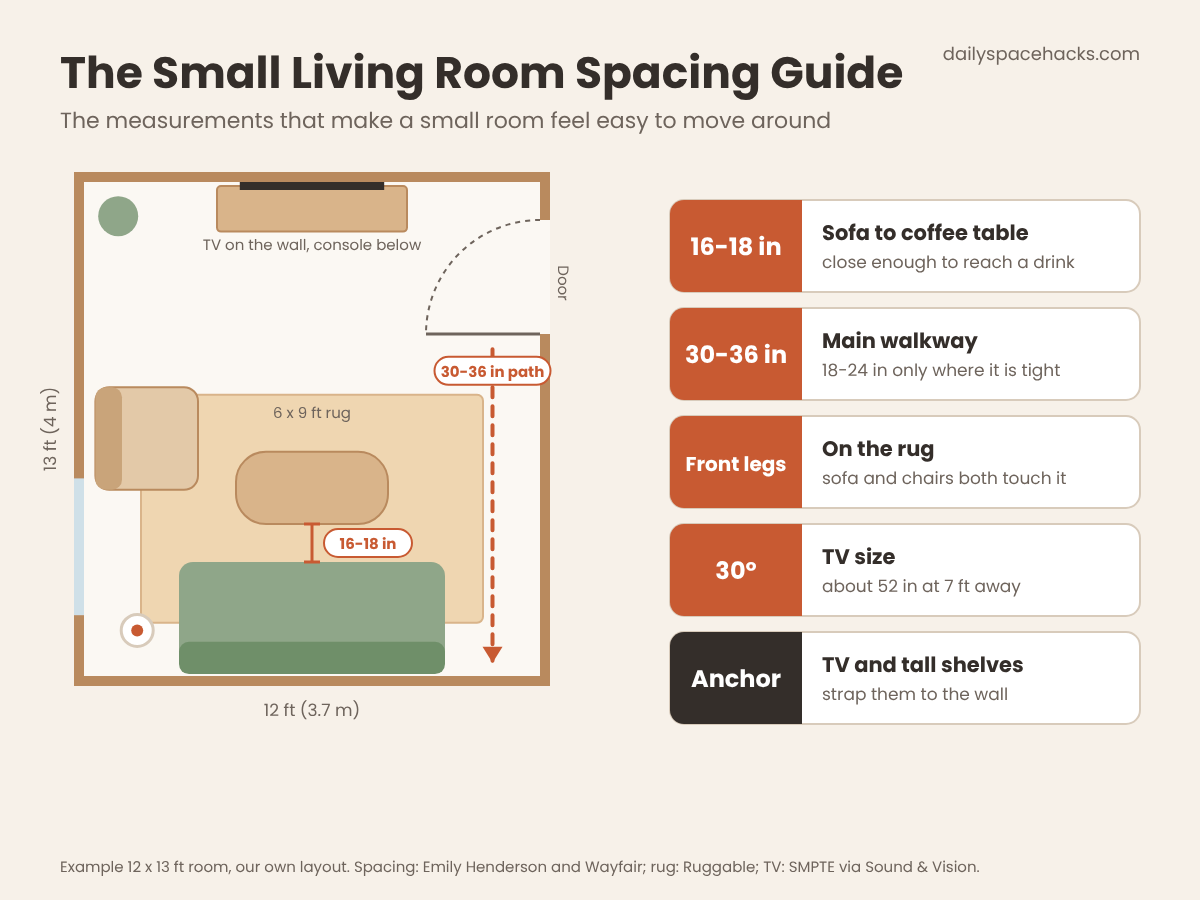
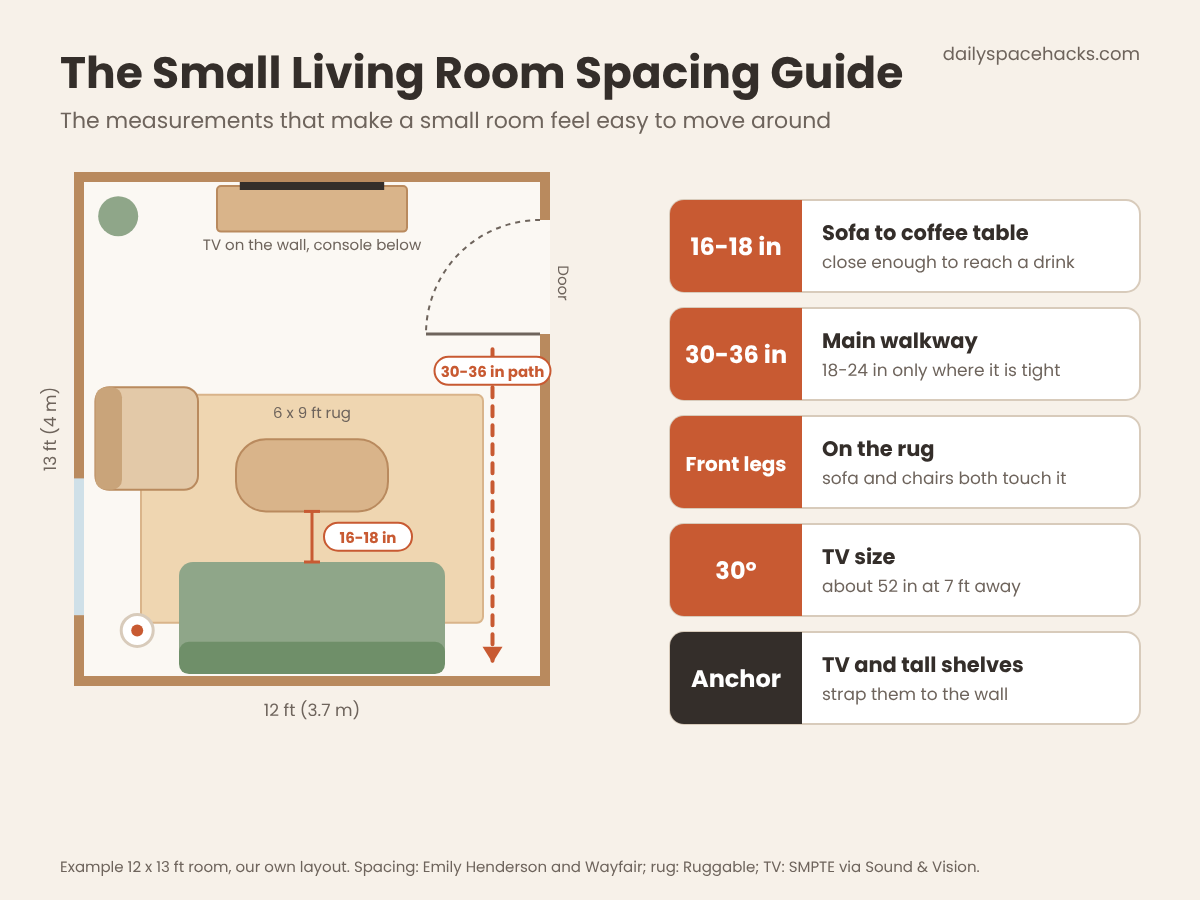
Small living room fact-check fixes
Claude-Session: https://claude.ai/code/session_01NA5LVV4VZ27gRjP7KysXbg

Changed region(s): [[0.185, 0.56, 0.3392, 0.6222], [0.185, 0.4667, 0.3392, 0.5289]]

diff --git a/tools/small-living-room/content.html b/tools/small-living-room/content.html
@@ -1,5 +1,5 @@
 <!-- wp:paragraph -->
-<p>Small apartment living room ideas are all about fitting real life into a few square feet: a sofa you love, a place for the TV, storage that does not crowd the floor and a walkway you can actually use. U.S. apartments are not big to begin with; RentCafe reports that apartment <a href="https://www.rentcafe.com/blog/?p=138390" target="_blank" rel="noopener">floor plans currently average 910 square feet nationwide</a>, and the living room usually gets only a slice of that.</p>
+<p>Small apartment living room ideas come down to fitting real life into limited space: a sofa you love, a place for the TV, storage that does not crowd the floor and a walkway you can actually use. U.S. apartments are not big to begin with; RentCafe reports that apartment <a href="https://www.rentcafe.com/blog/?p=138390" target="_blank" rel="noopener">floor plans currently average 910 square feet nationwide</a>, and the living room usually gets only a slice of that.</p>
 <!-- /wp:paragraph -->
 
 <!-- wp:paragraph -->
@@ -42,11 +42,11 @@
 <!-- /wp:paragraph -->
 
 <!-- wp:html -->
-<figure class="dsh-diagram"><svg xmlns="http://www.w3.org/2000/svg" viewBox="0 0 1200 900" font-family="Poppins, sans-serif" role="img" aria-labelledby="lr-t lr-d"><title id="lr-t">Small living room spacing guide</title><desc id="lr-d">Top-down plan of an example 12 by 13 foot apartment living room with spacing rules. A sofa sits against the bottom wall with a coffee table 16 to 18 inches in front of it. A 6 by 9 foot rug sits under the front legs of the sofa and the armchair. The TV hangs on the opposite wall above a low console. A 30 to 36 inch walkway runs from the door on the right wall past the end of the sofa. Anchor the TV and tall shelves to the wall.</desc><rect width="1200" height="900" fill="#F7F1E9"/><text x="60" y="88" font-size="44" font-weight="700" fill="#342E2A">The Small Living Room Spacing Guide</text><text x="60" y="128" font-size="22" fill="#6E645C">The measurements that make a small room feel easy to move around</text><text x="1140" y="60" font-size="18" fill="#6E645C" text-anchor="end">dailyspacehacks.com</text><rect x="74" y="172" width="476" height="514" fill="#B98A5E"/><rect x="84" y="182" width="456" height="494" fill="#FBF8F3"/><rect x="74" y="478.4" width="10" height="136.8" fill="#CFE0E8"/><rect x="540" y="220" width="10" height="114" fill="#FBF8F3"/><path d="M540 220 A114 114 0 0 0 426 334" fill="none" stroke="#6E645C" stroke-width="2" stroke-dasharray="5 5"/><line x1="540" y1="334" x2="426" y2="334" stroke="#6E645C" stroke-width="3"/><text x="558" y="283.0" font-size="15" fill="#6E645C" transform="rotate(90 558 283.0)" text-anchor="middle">Door</text><rect x="141.0" y="394.7" width="342" height="228" rx="6" fill="#ECCDA0" fill-opacity="0.8" stroke="#D9B48A" stroke-width="2"/><rect x="217.0" y="186" width="190" height="45.6" rx="4" fill="#D9B48A" stroke="#B98A5E" stroke-width="2"/><rect x="239.7" y="182" width="144.4" height="8" fill="#342E2A"/><text x="312" y="249.6" font-size="15" fill="#6E645C" text-anchor="middle">TV on the wall, console below</text><rect x="179.0" y="562" width="266" height="110" rx="14" fill="#8FA689"/><rect x="179.0" y="641.8" width="266" height="32.3" rx="10" fill="#6F8F69"/><rect x="236" y="451.8" width="152" height="72.2" rx="30" fill="#D9B48A" stroke="#B98A5E" stroke-width="2"/><rect x="95.4" y="387.2" width="102.6" height="102.6" rx="14" fill="#E3C9A8" stroke="#B98A5E" stroke-width="2"/><rect x="95.4" y="387.2" width="26.5" height="102.6" rx="10" fill="#C9A47A"/><circle cx="137.2" cy="630.4" r="16" fill="#fff" stroke="#D8CBBB" stroke-width="3"/><circle cx="137.2" cy="630.4" r="6" fill="#C85A32"/><circle cx="118.2" cy="216.2" r="20" fill="#8FA689"/><line x1="312" y1="524" x2="312" y2="562" stroke="#C85A32" stroke-width="3"/><line x1="304" y1="524" x2="320" y2="524" stroke="#C85A32" stroke-width="3"/><line x1="304" y1="562" x2="320" y2="562" stroke="#C85A32" stroke-width="3"/><rect x="324" y="529.0" width="88" height="28" rx="14" fill="#fff" stroke="#C85A32" stroke-width="2"/><text x="368" y="549.0" font-size="15" font-weight="700" fill="#C85A32" text-anchor="middle">16-18 in</text><path d="M492.5 349.2 L492.5 660.8" stroke="#C85A32" stroke-width="4" stroke-dasharray="10 9" stroke-linecap="round"/><path d="M482.5 646.8 L492.5 662.8 L502.5 646.8 Z" fill="#C85A32"/><rect x="434.5" y="356.7" width="116" height="28" rx="14" fill="#fff" stroke="#C85A32" stroke-width="2"/><text x="492.5" y="376.7" font-size="15" font-weight="700" fill="#C85A32" text-anchor="middle">30-36 in path</text><text x="312" y="417.7" font-size="15" fill="#6E645C" text-anchor="middle">6 x 9 ft rug</text><text x="312.0" y="716" font-size="17" fill="#6E645C" text-anchor="middle">12 ft (3.7 m)</text><text x="56" y="429.0" font-size="17" fill="#6E645C" text-anchor="middle" transform="rotate(-90 56 429.0)">13 ft (4 m)</text><rect x="670" y="200" width="470" height="92" rx="14" fill="#fff" stroke="#D8CBBB" stroke-width="2"/><rect x="670" y="200" width="132" height="92" rx="14" fill="#C85A32"/><rect x="788" y="200" width="14" height="92" fill="#C85A32"/><text x="736" y="255" font-size="24" font-weight="700" fill="#fff" text-anchor="middle">16-18 in</text><text x="822" y="240" font-size="21" font-weight="700" fill="#342E2A">Sofa to coffee table</text><text x="822" y="268" font-size="17" fill="#6E645C">close enough to reach a drink</text><rect x="670" y="308" width="470" height="92" rx="14" fill="#fff" stroke="#D8CBBB" stroke-width="2"/><rect x="670" y="308" width="132" height="92" rx="14" fill="#C85A32"/><rect x="788" y="308" width="14" height="92" fill="#C85A32"/><text x="736" y="363" font-size="24" font-weight="700" fill="#fff" text-anchor="middle">30-36 in</text><text x="822" y="348" font-size="21" font-weight="700" fill="#342E2A">Main walkway</text><text x="822" y="376" font-size="17" fill="#6E645C">18-24 in only where it is tight</text><rect x="670" y="416" width="470" height="92" rx="14" fill="#fff" stroke="#D8CBBB" stroke-width="2"/><rect x="670" y="416" width="132" height="92" rx="14" fill="#C85A32"/><rect x="788" y="416" width="14" height="92" fill="#C85A32"/><text x="736" y="471" font-size="20" font-weight="700" fill="#fff" text-anchor="middle">Front legs</text><text x="822" y="456" font-size="21" font-weight="700" fill="#342E2A">On the rug</text><text x="822" y="484" font-size="17" fill="#6E645C">sofa and chairs both touch it</text><rect x="670" y="524" width="470" height="92" rx="14" fill="#fff" stroke="#D8CBBB" stroke-width="2"/><rect x="670" y="524" width="132" height="92" rx="14" fill="#C85A32"/><rect x="788" y="524" width="14" height="92" fill="#C85A32"/><text x="736" y="579" font-size="24" font-weight="700" fill="#fff" text-anchor="middle">30°</text><text x="822" y="564" font-size="21" font-weight="700" fill="#342E2A">TV size</text><text x="822" y="592" font-size="17" fill="#6E645C">about 52 in at 7 ft away</text><rect x="670" y="632" width="470" height="92" rx="14" fill="#fff" stroke="#D8CBBB" stroke-width="2"/><rect x="670" y="632" width="132" height="92" rx="14" fill="#342E2A"/><rect x="788" y="632" width="14" height="92" fill="#342E2A"/><text x="736" y="687" font-size="24" font-weight="700" fill="#fff" text-anchor="middle">Anchor</text><text x="822" y="672" font-size="21" font-weight="700" fill="#342E2A">TV and tall shelves</text><text x="822" y="700" font-size="17" fill="#6E645C">strap them to the wall</text><text x="60" y="872" font-size="15" fill="#6E645C">Example 12 x 13 ft room, our own layout. Spacing: Emily Henderson and Wayfair; rug: Ruggable; TV: SMPTE via Sound &amp; Vision.</text></svg><figcaption>The small living room spacing guide: 16 to 18 in from sofa to coffee table, a 30 to 36 in walkway, the front legs of every seat on the rug, a TV sized for a 30 degree view and tall pieces anchored to the wall.</figcaption></figure>
+<figure class="dsh-diagram"><svg xmlns="http://www.w3.org/2000/svg" viewBox="0 0 1200 900" font-family="Poppins, sans-serif" role="img" aria-labelledby="lr-t lr-d"><title id="lr-t">Small living room spacing guide</title><desc id="lr-d">Top-down plan of an example 12 by 13 foot apartment living room with spacing rules. A sofa sits against the bottom wall with a coffee table 16 to 18 inches in front of it. A 6 by 9 foot rug sits under the front legs of the sofa and the armchair. The TV hangs on the opposite wall above a low console. A 30 to 36 inch walkway runs from the door on the right wall past the end of the sofa. Anchor the TV and tall shelves to the wall.</desc><rect width="1200" height="900" fill="#F7F1E9"/><text x="60" y="88" font-size="44" font-weight="700" fill="#342E2A">The Small Living Room Spacing Guide</text><text x="60" y="128" font-size="22" fill="#6E645C">The measurements that make a small room feel easy to move around</text><text x="1140" y="60" font-size="18" fill="#6E645C" text-anchor="end">dailyspacehacks.com</text><rect x="74" y="172" width="476" height="514" fill="#B98A5E"/><rect x="84" y="182" width="456" height="494" fill="#FBF8F3"/><rect x="74" y="478.4" width="10" height="136.8" fill="#CFE0E8"/><rect x="540" y="220" width="10" height="114" fill="#FBF8F3"/><path d="M540 220 A114 114 0 0 0 426 334" fill="none" stroke="#6E645C" stroke-width="2" stroke-dasharray="5 5"/><line x1="540" y1="334" x2="426" y2="334" stroke="#6E645C" stroke-width="3"/><text x="558" y="283.0" font-size="15" fill="#6E645C" transform="rotate(90 558 283.0)" text-anchor="middle">Door</text><rect x="141.0" y="394.7" width="342" height="228" rx="6" fill="#ECCDA0" fill-opacity="0.8" stroke="#D9B48A" stroke-width="2"/><rect x="217.0" y="186" width="190" height="45.6" rx="4" fill="#D9B48A" stroke="#B98A5E" stroke-width="2"/><rect x="239.7" y="182" width="144.4" height="8" fill="#342E2A"/><text x="312" y="249.6" font-size="15" fill="#6E645C" text-anchor="middle">TV on the wall, console below</text><rect x="179.0" y="562" width="266" height="110" rx="14" fill="#8FA689"/><rect x="179.0" y="641.8" width="266" height="32.3" rx="10" fill="#6F8F69"/><rect x="236" y="439.2" width="152" height="72.2" rx="30" fill="#D9B48A" stroke="#B98A5E" stroke-width="2"/><rect x="95.4" y="387.2" width="102.6" height="102.6" rx="14" fill="#E3C9A8" stroke="#B98A5E" stroke-width="2"/><rect x="95.4" y="387.2" width="26.5" height="102.6" rx="10" fill="#C9A47A"/><circle cx="137.2" cy="630.4" r="16" fill="#fff" stroke="#D8CBBB" stroke-width="3"/><circle cx="137.2" cy="630.4" r="6" fill="#C85A32"/><circle cx="118.2" cy="216.2" r="20" fill="#8FA689"/><line x1="312" y1="511.4" x2="312" y2="562" stroke="#C85A32" stroke-width="3"/><line x1="304" y1="511.4" x2="320" y2="511.4" stroke="#C85A32" stroke-width="3"/><line x1="304" y1="562" x2="320" y2="562" stroke="#C85A32" stroke-width="3"/><rect x="324" y="522.7" width="88" height="28" rx="14" fill="#fff" stroke="#C85A32" stroke-width="2"/><text x="368" y="542.7" font-size="15" font-weight="700" fill="#C85A32" text-anchor="middle">16-18 in</text><path d="M492.5 349.2 L492.5 660.8" stroke="#C85A32" stroke-width="4" stroke-dasharray="10 9" stroke-linecap="round"/><path d="M482.5 646.8 L492.5 662.8 L502.5 646.8 Z" fill="#C85A32"/><rect x="434.5" y="356.7" width="116" height="28" rx="14" fill="#fff" stroke="#C85A32" stroke-width="2"/><text x="492.5" y="376.7" font-size="15" font-weight="700" fill="#C85A32" text-anchor="middle">30-36 in path</text><text x="312" y="417.7" font-size="15" fill="#6E645C" text-anchor="middle">6 x 9 ft rug</text><text x="312.0" y="716" font-size="17" fill="#6E645C" text-anchor="middle">12 ft (3.7 m)</text><text x="56" y="429.0" font-size="17" fill="#6E645C" text-anchor="middle" transform="rotate(-90 56 429.0)">13 ft (4 m)</text><rect x="670" y="200" width="470" height="92" rx="14" fill="#fff" stroke="#D8CBBB" stroke-width="2"/><rect x="670" y="200" width="132" height="92" rx="14" fill="#C85A32"/><rect x="788" y="200" width="14" height="92" fill="#C85A32"/><text x="736" y="255" font-size="24" font-weight="700" fill="#fff" text-anchor="middle">16-18 in</text><text x="822" y="240" font-size="21" font-weight="700" fill="#342E2A">Sofa to coffee table</text><text x="822" y="268" font-size="17" fill="#6E645C">close enough to reach a drink</text><rect x="670" y="308" width="470" height="92" rx="14" fill="#fff" stroke="#D8CBBB" stroke-width="2"/><rect x="670" y="308" width="132" height="92" rx="14" fill="#C85A32"/><rect x="788" y="308" width="14" height="92" fill="#C85A32"/><text x="736" y="363" font-size="24" font-weight="700" fill="#fff" text-anchor="middle">30-36 in</text><text x="822" y="348" font-size="21" font-weight="700" fill="#342E2A">Main walkway</text><text x="822" y="376" font-size="17" fill="#6E645C">18-24 in only where it is tight</text><rect x="670" y="416" width="470" height="92" rx="14" fill="#fff" stroke="#D8CBBB" stroke-width="2"/><rect x="670" y="416" width="132" height="92" rx="14" fill="#C85A32"/><rect x="788" y="416" width="14" height="92" fill="#C85A32"/><text x="736" y="471" font-size="20" font-weight="700" fill="#fff" text-anchor="middle">Front legs</text><text x="822" y="456" font-size="21" font-weight="700" fill="#342E2A">On the rug</text><text x="822" y="484" font-size="17" fill="#6E645C">sofa and chairs both touch it</text><rect x="670" y="524" width="470" height="92" rx="14" fill="#fff" stroke="#D8CBBB" stroke-width="2"/><rect x="670" y="524" width="132" height="92" rx="14" fill="#C85A32"/><rect x="788" y="524" width="14" height="92" fill="#C85A32"/><text x="736" y="579" font-size="24" font-weight="700" fill="#fff" text-anchor="middle">30°</text><text x="822" y="564" font-size="21" font-weight="700" fill="#342E2A">TV size</text><text x="822" y="592" font-size="17" fill="#6E645C">about 52 in at 7 ft away</text><rect x="670" y="632" width="470" height="92" rx="14" fill="#fff" stroke="#D8CBBB" stroke-width="2"/><rect x="670" y="632" width="132" height="92" rx="14" fill="#342E2A"/><rect x="788" y="632" width="14" height="92" fill="#342E2A"/><text x="736" y="687" font-size="24" font-weight="700" fill="#fff" text-anchor="middle">Anchor</text><text x="822" y="672" font-size="21" font-weight="700" fill="#342E2A">TV and tall shelves</text><text x="822" y="700" font-size="17" fill="#6E645C">strap them to the wall</text><text x="60" y="872" font-size="15" fill="#6E645C">Example 12 x 13 ft room, our own layout. Spacing: Emily Henderson and Wayfair; rug: Ruggable; TV: SMPTE via Sound &amp; Vision.</text></svg><figcaption>The small living room spacing guide: 16 to 18 in from sofa to coffee table, a 30 to 36 in walkway, the front legs of every seat on the rug, a TV sized for a 30 degree view and tall pieces anchored to the wall.</figcaption></figure>
 <!-- /wp:html -->
 
 <!-- wp:table -->
-<figure class="wp-block-table"><table><thead><tr><th>What</th><th>Measurement</th><th>Why it matters</th></tr></thead><tbody><tr><td>Sofa to coffee table</td><td>16 to 18 in (12 in at a squeeze)</td><td>Easy to reach, still room for knees</td></tr><tr><td>Main walkway</td><td>30 to 36 in (18 to 24 in where tight)</td><td>You can walk through without turning sideways</td></tr><tr><td>Rug</td><td>Front legs of every seat on it</td><td>Pulls the seating together into one zone</td></tr><tr><td>TV size</td><td>About a 30° view; roughly 52 in at 7 ft</td><td>Not too big for a small room</td></tr><tr><td>Tall pieces</td><td>Anchored to the wall</td><td>Stops tip-overs</td></tr></tbody></table></figure>
+<figure class="wp-block-table"><table><thead><tr><th>What</th><th>Measurement</th><th>Why it matters</th></tr></thead><tbody><tr><td>Sofa to coffee table</td><td>16 to 18 in (12 in in a pinch)</td><td>Easy to reach, still room for knees</td></tr><tr><td>Main walkway</td><td>30 to 36 in (18 to 24 in where tight)</td><td>You can walk through without turning sideways</td></tr><tr><td>Rug</td><td>Front legs of every seat on it</td><td>Pulls the seating together into one zone</td></tr><tr><td>TV size</td><td>About a 30° view; roughly 52 in at 7 ft</td><td>SMPTE's minimum angle (<a href="https://www.soundandvision.com/content/screen-size-and-seating-distance" target="_blank" rel="noopener">Sound &amp; Vision</a>)</td></tr><tr><td>Tall pieces</td><td>Anchored to the wall</td><td>Helps prevent tip-overs</td></tr></tbody></table></figure>
 <!-- /wp:table -->
 
 <!-- wp:paragraph -->
@@ -58,7 +58,7 @@
 <!-- /wp:heading -->
 
 <!-- wp:table -->
-<figure class="wp-block-table"><table><thead><tr><th>Your situation</th><th>Best ideas</th><th>Cost</th></tr></thead><tbody><tr><td>Feels cramped</td><td>#1, #2, #11, #14</td><td>Low to medium</td></tr><tr><td>No storage</td><td>#6, #7, #8, #9</td><td>Low to medium</td></tr><tr><td>Renting</td><td>#9, #10, #12, #15</td><td>Low</td></tr><tr><td>Living room is also the dining room</td><td>#3, #16</td><td>Low to medium</td></tr><tr><td>Working from home</td><td>#17, #18</td><td>Low</td></tr></tbody></table></figure>
+<figure class="wp-block-table"><table><thead><tr><th>Your situation</th><th>Best ideas</th><th>Cost</th></tr></thead><tbody><tr><td>Feels cramped</td><td>#1, #2, #11, #14</td><td>Low to medium</td></tr><tr><td>No storage</td><td>#6, #7, #8, #9</td><td>Low to medium</td></tr><tr><td>Renting</td><td>#9, #10, #15, #19</td><td>Low</td></tr><tr><td>Living room is also the dining room</td><td>#16, #18</td><td>Low to medium</td></tr><tr><td>Working from home</td><td>#3, #17</td><td>Low</td></tr></tbody></table></figure>
 <!-- /wp:table -->
 
 <!-- wp:heading -->
@@ -99,7 +99,7 @@
 <!-- /wp:heading -->
 
 <!-- wp:paragraph -->
-<p>Look for a sofa about 70 to 80 in wide with slim arms and raised legs. Seeing the floor underneath makes the room feel larger, and slim arms give you more seat in the same width.</p>
+<p>Look for a sofa about 70 to 84 in wide with slim arms and raised legs. Seeing the floor underneath makes the room feel larger, and slim arms give you more seat in the same width.</p>
 <!-- /wp:paragraph -->
 
 <!-- wp:heading {"level":3} -->
@@ -135,7 +135,7 @@
 <!-- /wp:heading -->
 
 <!-- wp:paragraph -->
-<p>In a very small room, push the sofa against the wall to free the middle. In a slightly bigger room, floating it a little off the wall with a slim console behind can define the living area, especially in an open-plan apartment.</p>
+<p>In a very small room, push the sofa against the wall to free the middle. In a slightly bigger room, floating it a little off the wall with a slim console behind can define the living area, especially in an open-concept apartment.</p>
 <!-- /wp:paragraph -->
 
 <!-- wp:heading {"level":3} -->
@@ -199,7 +199,7 @@
 <!-- /wp:image -->
 
 <!-- wp:paragraph -->
-<p>Home Depot's small living room guide notes that mirrors <a href="https://www.homedepot.com/c/ai/small-living-room-ideas/9ba683603be9fa5395fab9019760ffa2" target="_blank" rel="noopener">amplify the available light while creating the impression of more space</a>. Place one opposite or beside a window, and fix a floor mirror to the wall so it cannot tip.</p>
+<p>Home Depot's small living room guide notes that mirrors <a href="https://www.homedepot.com/c/ai/small-living-room-ideas/9ba683603be9fa5395fab9019760ffa2" target="_blank" rel="noopener">amplify the available light while creating the impression of more space</a>. Place one opposite or beside a window, and secure a floor mirror to the wall so it is much less likely to tip.</p>
 <!-- /wp:paragraph -->
 
 <!-- wp:heading {"level":3} -->
@@ -223,7 +223,7 @@
 <!-- /wp:heading -->
 
 <!-- wp:paragraph -->
-<p>Ruggable's guide says to <a href="https://ruggable.com/pages/size-guide" target="_blank" rel="noopener">ensure that the front legs of your seating fit on the rug</a>, and Home Depot suggests <a href="https://www.homedepot.com/c/ai/rug-sizes-for-your-space/9ba683603be9fa5395fab901838423fe" target="_blank" rel="noopener">a 6' x 9' or 8' x 10' rug size for living room spaces</a>. A rug that is too small makes the room look smaller. Our <a href="https://dailyspacehacks.com/rug-size-calculator/">rug size calculator</a> works it out for your layout.</p>
+<p>Ruggable's guide says to <a href="https://ruggable.com/pages/size-guide" target="_blank" rel="noopener">ensure that the front legs of your seating fit on the rug</a>, and for furniture placed against the walls, Home Depot suggests <a href="https://www.homedepot.com/c/ai/rug-sizes-for-your-space/9ba683603be9fa5395fab901838423fe" target="_blank" rel="noopener">a 6' x 9' or 8' x 10' rug size for living room spaces</a>. A rug that is too small makes the room look smaller. Our <a href="https://dailyspacehacks.com/rug-size-calculator/">rug size calculator</a> works it out for your layout.</p>
 <!-- /wp:paragraph -->
 
 <!-- wp:heading {"level":3} -->
@@ -263,7 +263,7 @@
 <!-- /wp:heading -->
 
 <!-- wp:paragraph -->
-<p>In a studio or open-plan apartment, an open bookcase or a curtain can separate the living area from the bed or kitchen without blocking light. Our <a href="https://dailyspacehacks.com/room-divider-ideas/">room divider ideas</a> and <a href="https://dailyspacehacks.com/studio-apartment-ideas/">studio apartment ideas</a> have more ways to do it.</p>
+<p>In a studio or open-concept apartment, an open bookcase or a curtain can separate the living area from the bed or kitchen without blocking light. Our <a href="https://dailyspacehacks.com/room-divider-ideas/">room divider ideas</a> and <a href="https://dailyspacehacks.com/studio-apartment-ideas/">studio apartment ideas</a> have more ways to do it.</p>
 <!-- /wp:paragraph -->
 
 <!-- wp:heading -->
@@ -296,13 +296,13 @@
 
 <!-- wp:list -->
 <ul class="wp-block-list"><!-- wp:list-item -->
-<li><strong>Anchor tall pieces:</strong> the CPSC says to <a href="https://www.cpsc.gov/Newsroom/News-Releases/2025/CPSC-AnchorIt-Campaign-Marks-10-Years-Fewer-Furniture-Tip-Overs-Lead-to-Safer-American-Households" target="_blank" rel="noopener">anchor TVs and furniture, such as bookcases and dressers, securely to the wall</a>, especially in homes with children.</li>
+<li><strong>Anchor tall pieces:</strong> the CPSC says to <a href="https://www.cpsc.gov/Newsroom/News-Releases/2025/CPSC-AnchorIt-Campaign-Marks-10-Years-Fewer-Furniture-Tip-Overs-Lead-to-Safer-American-Households" target="_blank" rel="noopener">anchor TVs and furniture, such as bookcases and dressers, securely to the wall</a>, especially in homes with children; the CPSC credits anchoring with fewer tip-overs.</li>
 <!-- /wp:list-item -->
 <!-- wp:list-item -->
 <li><strong>Cords:</strong> run cords along walls or behind furniture, not across walkways or under rugs.</li>
 <!-- /wp:list-item -->
 <!-- wp:list-item -->
-<li><strong>Rugs:</strong> use a non-slip rug pad so a rug cannot slide on a hard floor.</li>
+<li><strong>Rugs:</strong> use a non-slip rug pad so a rug is less likely to slide on a hard floor.</li>
 <!-- /wp:list-item -->
 <!-- wp:list-item -->
 <li><strong>Mirrors:</strong> fix floor and wall mirrors securely, and never rely on adhesive strips for heavy ones.</li>
@@ -351,7 +351,7 @@
 <!-- /wp:heading -->
 
 <!-- wp:paragraph -->
-<p>An apartment-size sofa about 70 to 80 in wide with slim arms and raised legs suits most small living rooms. Measure the room, the doorway and any stairs before you buy, and leave room for a walkway.</p>
+<p>An apartment-size sofa about 70 to 84 in wide with slim arms and raised legs suits most small living rooms. Measure the room, the doorway and any stairs before you buy, and leave room for a walkway.</p>
 <!-- /wp:paragraph -->
 
 <!-- wp:heading {"level":3} -->

diff --git a/tools/small-living-room/build.py b/tools/small-living-room/build.py
@@ -11,7 +11,7 @@ SRC={"eh":"https://old.stylebyemilyhenderson.com/?p=141686",
 "rent":"https://www.rentcafe.com/blog/?p=138390",
 "cmd":"https://www.command.com/3M/en_US/p/d/b5005604172/"}
 def SR(k,t): return ext(SRC[k],t)
-p(f"Small apartment living room ideas are all about fitting real life into a few square feet: a sofa you love, a place for the TV, storage that does not crowd the floor and a walkway you can actually use. U.S. apartments are not big to begin with; RentCafe reports that apartment {SR('rent','floor plans currently average 910 square feet nationwide')}, and the living room usually gets only a slice of that.")
+p(f"Small apartment living room ideas come down to fitting real life into limited space: a sofa you love, a place for the TV, storage that does not crowd the floor and a walkway you can actually use. U.S. apartments are not big to begin with; RentCafe reports that apartment {SR('rent','floor plans currently average 910 square feet nationwide')}, and the living room usually gets only a slice of that.")
 p("This guide gives you a simple spacing plan with the measurements that matter, a 6-step layout plan and 20 small apartment living room ideas for furniture, storage, making the room feel bigger and fitting in a dining or work spot. Most are renter-friendly.")
 img(1)
 summary(["<strong>Quick answer:</strong> Choose an apartment-size sofa on legs, a round or nesting coffee table 16 to 18 in from the sofa, and a rug big enough for the front legs of every seat. Mount the TV, use the walls for storage, keep a 30 to 36 in walkway and add a mirror, high curtains and layered light.",
@@ -23,19 +23,19 @@ h2("The Small Living Room Spacing Guide")
 p(f"A small room feels comfortable when the spaces between things are right. Design guides agree on a few numbers: Emily Henderson's team says {SR('eh','16″ to 18” is the ideal distance between the sofa and coffee table')}, and suggests a 30 to 36 in walkway between large pieces. Wayfair's guide allows {SR('wf','between 12\" – 18\" of space')} between the table and the sofa.")
 diagram(re.sub(r'(\d+\.\d{1,2})\d+',r'\1',open('z.svg').read()),"The small living room spacing guide: 16 to 18 in from sofa to coffee table, a 30 to 36 in walkway, the front legs of every seat on the rug, a TV sized for a 30 degree view and tall pieces anchored to the wall.")
 table(["What","Measurement","Why it matters"],[
-["Sofa to coffee table","16 to 18 in (12 in at a squeeze)","Easy to reach, still room for knees"],
+["Sofa to coffee table","16 to 18 in (12 in in a pinch)","Easy to reach, still room for knees"],
 ["Main walkway","30 to 36 in (18 to 24 in where tight)","You can walk through without turning sideways"],
 ["Rug","Front legs of every seat on it","Pulls the seating together into one zone"],
-["TV size","About a 30° view; roughly 52 in at 7 ft","Not too big for a small room"],
-["Tall pieces","Anchored to the wall","Stops tip-overs"]])
+["TV size","About a 30° view; roughly 52 in at 7 ft",f"SMPTE's minimum angle ({SR('tv','Sound &amp; Vision')})"],
+["Tall pieces","Anchored to the wall","Helps prevent tip-overs"]])
 p("The room in the plan is our own 12 x 13 ft example; measure your room and move the pieces to fit your windows and door.")
 h2("Quick Pick: Small Apartment Living Room Ideas by Situation")
 table(["Your situation","Best ideas","Cost"],[
 ["Feels cramped","#1, #2, #11, #14","Low to medium"],
 ["No storage","#6, #7, #8, #9","Low to medium"],
-["Renting","#9, #10, #12, #15","Low"],
-["Living room is also the dining room","#3, #16","Low to medium"],
-["Working from home","#17, #18","Low"]])
+["Renting","#9, #10, #15, #19","Low"],
+["Living room is also the dining room","#16, #18","Low to medium"],
+["Working from home","#3, #17","Low"]])
 h2("How to Plan a Small Apartment Living Room in 6 Steps")
 lst(["<strong>Measure the room.</strong> Note the windows, door swing, radiators and outlets.",
 "<strong>Decide the main job.</strong> TV, conversation, guests or work: let one thing lead the layout.",
@@ -46,7 +46,7 @@ lst(["<strong>Measure the room.</strong> Note the windows, door swing, radiators
 img(6)
 h2("Furniture Ideas for a Small Apartment Living Room")
 h3("1. An Apartment-Size Sofa on Legs")
-p("Look for a sofa about 70 to 80 in wide with slim arms and raised legs. Seeing the floor underneath makes the room feel larger, and slim arms give you more seat in the same width.")
+p("Look for a sofa about 70 to 84 in wide with slim arms and raised legs. Seeing the floor underneath makes the room feel larger, and slim arms give you more seat in the same width.")
 h3("2. A Round Coffee Table")
 p(f"A round table takes up less visual space, has no corners to bump into and makes it easier to walk around. Our {a('coffee-table-decor','coffee table decor ideas')} show how to style it without clutter.")
 h3("3. Nesting Tables")
@@ -55,7 +55,7 @@ p("A pair of nesting tables works as one coffee table most days and pulls apart 
 h3("4. Armless Chairs and Poufs")
 p("Armless chairs, a small swivel chair or a pair of poufs add seats without bulk. Poufs tuck under a console when you need the floor back.")
 h3("5. Sofa Against the Wall or Floating")
-p("In a very small room, push the sofa against the wall to free the middle. In a slightly bigger room, floating it a little off the wall with a slim console behind can define the living area, especially in an open-plan apartment.")
+p("In a very small room, push the sofa against the wall to free the middle. In a slightly bigger room, floating it a little off the wall with a slim console behind can define the living area, especially in an open-concept apartment.")
 h3("6. Furniture That Stores")
 p("A storage ottoman, a coffee table with a shelf or drawers, and a sofa with a storage base all hide blankets, games and chargers without adding another piece of furniture.")
 h2("Small Living Room Storage Ideas")
@@ -71,13 +71,13 @@ p(f"If you cannot drill, adhesive strips work for light frames and small shelves
 h2("Ways to Make a Small Living Room Feel Bigger")
 h3("11. A Big Mirror")
 img(4)
-p(f"Home Depot's small living room guide notes that mirrors {SR('mirror','amplify the available light while creating the impression of more space')}. Place one opposite or beside a window, and fix a floor mirror to the wall so it cannot tip.")
+p(f"Home Depot's small living room guide notes that mirrors {SR('mirror','amplify the available light while creating the impression of more space')}. Place one opposite or beside a window, and secure a floor mirror to the wall so it is much less likely to tip.")
 h3("12. Curtains Hung High and Wide")
 p(f"Hang the rod close to the ceiling and extend it past the window frame so the curtains frame the glass instead of covering it. Our {a('curtain-size-calculator','curtain size calculator')} tells you the width and length to buy.")
 h3("13. Light, Calm Walls")
 p("Warm white, cream or a soft sage on the walls bounces light around. Keep the ceiling white and repeat one or two accent colors in cushions and art.")
 h3("14. A Rug That Is Big Enough")
-p(f"Ruggable's guide says to {SR('rug','ensure that the front legs of your seating fit on the rug')}, and Home Depot suggests {SR('hdrug',"a 6' x 9' or 8' x 10' rug size for living room spaces")}. A rug that is too small makes the room look smaller. Our {a('rug-size-calculator','rug size calculator')} works it out for your layout.")
+p(f"Ruggable's guide says to {SR('rug','ensure that the front legs of your seating fit on the rug')}, and for furniture placed against the walls, Home Depot suggests {SR('hdrug',"a 6' x 9' or 8' x 10' rug size for living room spaces")}. A rug that is too small makes the room look smaller. Our {a('rug-size-calculator','rug size calculator')} works it out for your layout.")
 h3("15. Layered, Wall-Mounted Lighting")
 p("Swap a big floor lamp for a plug-in wall sconce, add a table lamp and keep the ceiling light for cleaning. Light at different heights makes corners feel part of the room.")
 h2("Living Room Ideas That Do Double Duty")
@@ -87,7 +87,7 @@ p(f"A round pedestal table for two in a corner or by the window gives you a plac
 h3("17. A Slim Work Corner")
 p("A narrow wall desk or a console behind the sofa can be a home office. Choose a chair that tucks fully under, and keep work things in one box you can put away at night.")
 h3("18. A Light Divider")
-p(f"In a studio or open-plan apartment, an open bookcase or a curtain can separate the living area from the bed or kitchen without blocking light. Our {a('room-divider-ideas','room divider ideas')} and {a('studio-apartment-ideas','studio apartment ideas')} have more ways to do it.")
+p(f"In a studio or open-concept apartment, an open bookcase or a curtain can separate the living area from the bed or kitchen without blocking light. Our {a('room-divider-ideas','room divider ideas')} and {a('studio-apartment-ideas','studio apartment ideas')} have more ways to do it.")
 h2("Small Apartment Living Room Decor Ideas")
 h3("19. Plants at Different Heights")
 p("One tall plant in a corner and one or two small ones on shelves bring life into the room without taking floor space. If you have pets, choose plants that are safe for them.")
@@ -95,9 +95,9 @@ h3("20. One Big Piece of Art")
 p(f"A single large print or a small gallery above the sofa looks calmer than many little frames. Use our {a('picture-hanging-height-calculator','picture hanging height calculator')} to hang it at the right height above the sofa.")
 add(open('savebox.html').read())
 h2("Small Living Room Safety Tips")
-lst([f"<strong>Anchor tall pieces:</strong> the CPSC says to {SR('cpsc','anchor TVs and furniture, such as bookcases and dressers, securely to the wall')}, especially in homes with children.",
+lst([f"<strong>Anchor tall pieces:</strong> the CPSC says to {SR('cpsc','anchor TVs and furniture, such as bookcases and dressers, securely to the wall')}, especially in homes with children; the CPSC credits anchoring with fewer tip-overs.",
 "<strong>Cords:</strong> run cords along walls or behind furniture, not across walkways or under rugs.",
-"<strong>Rugs:</strong> use a non-slip rug pad so a rug cannot slide on a hard floor.",
+"<strong>Rugs:</strong> use a non-slip rug pad so a rug is less likely to slide on a hard floor.",
 "<strong>Mirrors:</strong> fix floor and wall mirrors securely, and never rely on adhesive strips for heavy ones.",
 "<strong>Keep exits clear:</strong> do not block the door or a window you might need to open."])
 h2("Common Small Living Room Mistakes")
@@ -110,7 +110,7 @@ h2("Small Apartment Living Room FAQ")
 h3("How do I arrange a small apartment living room?")
 p("Start with the sofa against the longest wall or facing the TV, keep a 30 to 36 in walkway from the door, put a rug under the front legs of every seat and place the coffee table 16 to 18 in from the sofa. Use the walls for the TV, storage and lights.")
 h3("What size sofa is best for a small living room?")
-p("An apartment-size sofa about 70 to 80 in wide with slim arms and raised legs suits most small living rooms. Measure the room, the doorway and any stairs before you buy, and leave room for a walkway.")
+p("An apartment-size sofa about 70 to 84 in wide with slim arms and raised legs suits most small living rooms. Measure the room, the doorway and any stairs before you buy, and leave room for a walkway.")
 h3("How can I make my small living room look bigger?")
 p("Use a large mirror near a window, hang curtains high and wide, keep the walls light, choose furniture on legs and a rug big enough for the front legs of every seat. Fewer, larger pieces also make the room feel calmer and more open.")
 h3("What size rug for a small living room?")

diff --git a/tools/small-living-room/svg.py b/tools/small-living-room/svg.py
@@ -25,14 +25,14 @@ a(f'<text x="{X(6)}" y="{Y(1.2)+22}" font-size="15" fill="{G}" text-anchor="midd
 # sofa bottom wall
 a(f'<rect x="{X(2.5)}" y="{Y(10)}" width="{7*F}" height="{3*F-4}" rx="14" fill="{SG}"/><rect x="{X(2.5)}" y="{Y(12.1)}" width="{7*F}" height="{0.85*F}" rx="10" fill="#6F8F69"/>')
 # coffee table
-a(f'<rect x="{X(4)}" y="{Y(7.1)}" width="{4*F}" height="{1.9*F}" rx="30" fill="{W1}" stroke="{W2}" stroke-width="2"/>')
+a(f'<rect x="{X(4)}" y="{Y(6.77)}" width="{4*F}" height="{1.9*F}" rx="30" fill="{W1}" stroke="{W2}" stroke-width="2"/>')
 # armchair left
 a(f'<rect x="{X(0.3)}" y="{Y(5.4)}" width="{2.7*F}" height="{2.7*F}" rx="14" fill="#E3C9A8" stroke="{W2}" stroke-width="2"/><rect x="{X(0.3)}" y="{Y(5.4)}" width="{0.7*F}" height="{2.7*F}" rx="10" fill="#C9A47A"/>')
 # floor lamp + plant
 a(f'<circle cx="{X(1.4)}" cy="{Y(11.8)}" r="16" fill="#fff" stroke="{BR}" stroke-width="3"/><circle cx="{X(1.4)}" cy="{Y(11.8)}" r="6" fill="{A}"/>')
 a(f'<circle cx="{X(0.9)}" cy="{Y(0.9)}" r="20" fill="{SG}"/>')
 # dimension: sofa to table
-y1=Y(9); y2=Y(10)
+y1=Y(8.67); y2=Y(10)
 a(f'<line x1="{X(6)}" y1="{y1}" x2="{X(6)}" y2="{y2}" stroke="{A}" stroke-width="3"/><line x1="{X(6)-8}" y1="{y1}" x2="{X(6)+8}" y2="{y1}" stroke="{A}" stroke-width="3"/><line x1="{X(6)-8}" y1="{y2}" x2="{X(6)+8}" y2="{y2}" stroke="{A}" stroke-width="3"/>')
 a(f'<rect x="{X(6)+12}" y="{(y1+y2)/2-14}" width="88" height="28" rx="14" fill="#fff" stroke="{A}" stroke-width="2"/><text x="{X(6)+56}" y="{(y1+y2)/2+6}" font-size="15" font-weight="700" fill="{A}" text-anchor="middle">16-18 in</text>')
 # walkway
